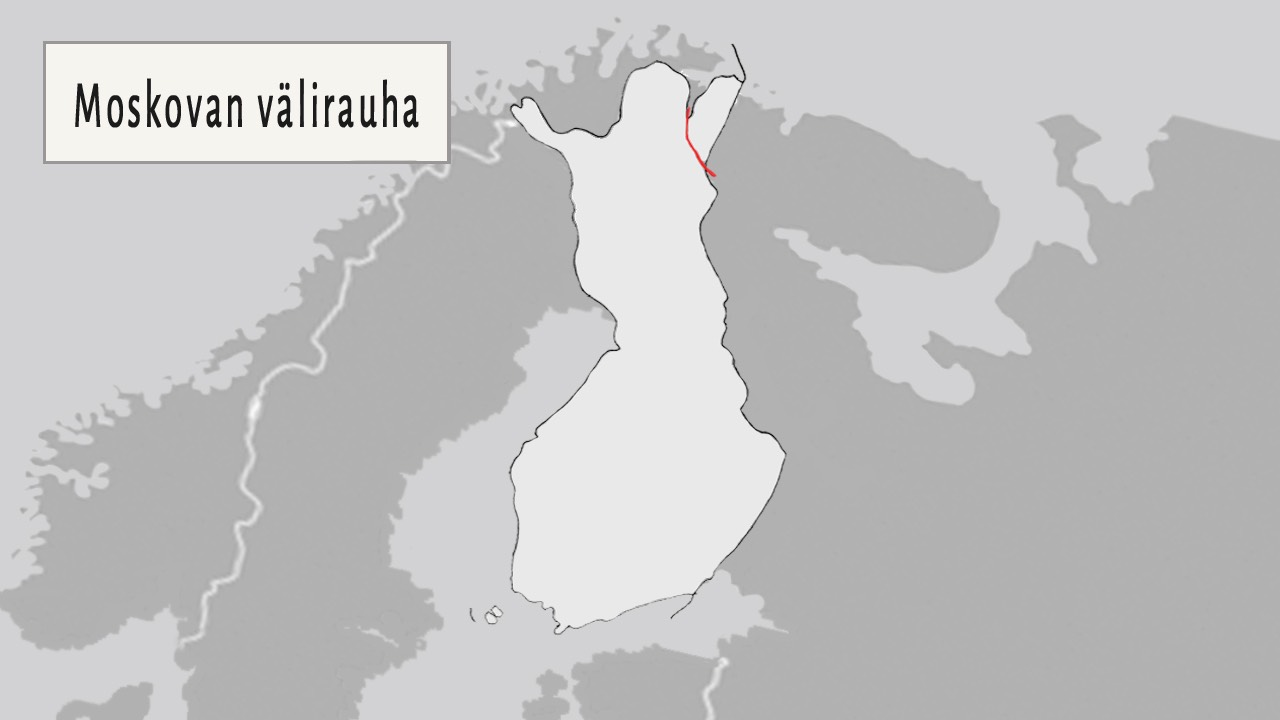
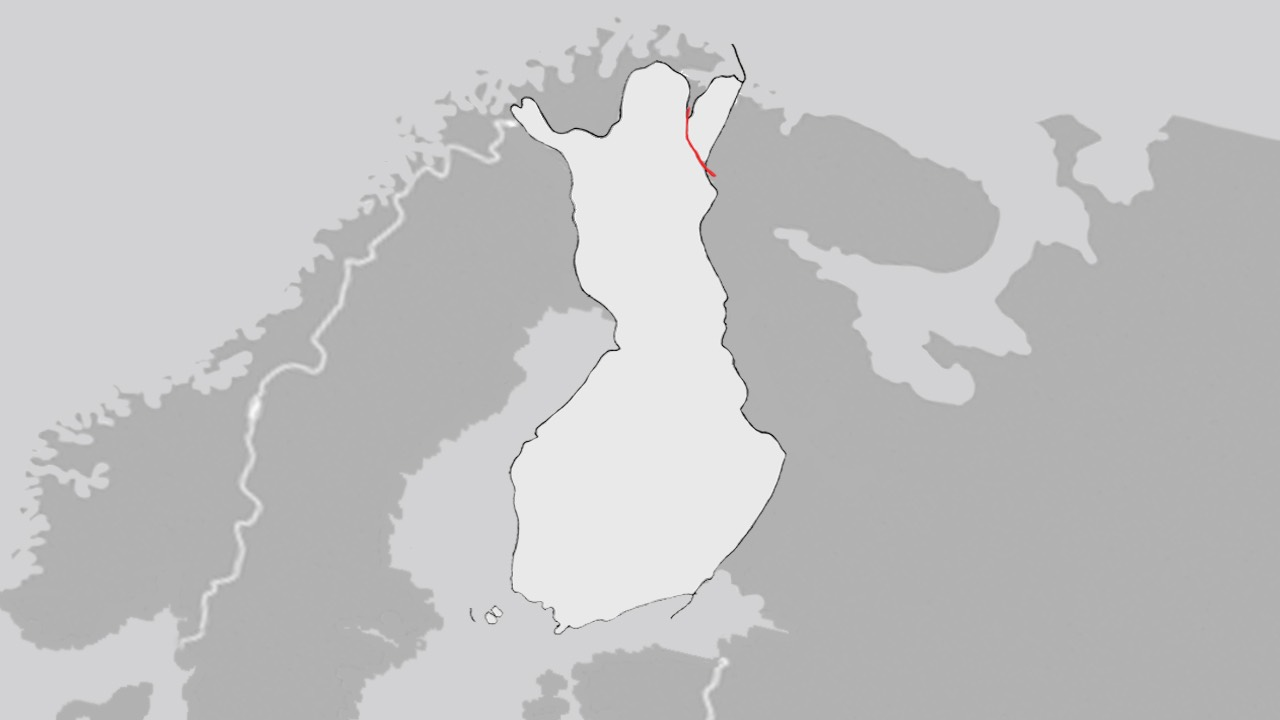
Rework map animation

Changed region(s): [[0.0312, 0.0306, 0.375, 0.2444]]

diff --git a/src/load.js b/src/load.js
@@ -52,10 +52,8 @@ var load_state = {
         GAME.load.image('empty', 'assets/img/empty.png');
         GAME.load.image('peace1940_01', 'assets/img/peace1940_01.jpg');
         GAME.load.image('peace1940_02', 'assets/img/peace1940_02.jpg');
-        GAME.load.image('peace1940_03', 'assets/img/peace1940_03.jpg');
         GAME.load.image('peace1944_01', 'assets/img/peace1944_01.jpg');
         GAME.load.image('peace1944_02', 'assets/img/peace1944_02.jpg');
-        GAME.load.image('peace1944_03', 'assets/img/peace1944_03.jpg');
         GAME.load.image('menubackground', 'assets/img/menu.jpg');
         GAME.load.image('genderbackground', 'assets/img/gender.jpg');
         GAME.load.image('schoolbackground', 'assets/img/school.jpg');
@@ -111,7 +109,7 @@ var load_state = {
      * from the default state, since they are overwritten in the beginning.
      */
     create: function() {
-        var startState = 'peacetime1'; // Default start state == 'menu'     
+        var startState = 'menu'; // Default start state == 'menu'     
         PLAYER = { 
             // Beginning properties
             gender: 'male',

diff --git a/src/map1.js b/src/map1.js
@@ -4,15 +4,13 @@ var map1_state = {
         //PLACEHOLDER! TODO: Add map with animation
         var images = [GAME.add.sprite(0, 0, 'peace1940_01'),
                       GAME.add.sprite(0, 0, 'peace1940_02'),
-                      GAME.add.sprite(0, 0, 'peace1940_03'),
                       GAME.add.sprite(0, 0, 'peace1944_01'),
-                      GAME.add.sprite(0, 0, 'peace1944_02'),
-                      GAME.add.sprite(0, 0, 'peace1944_03')];
+                      GAME.add.sprite(0, 0, 'peace1944_02')];
         var image = 'empty';
 
-        var tweenLength = 2000;
+        var tweenLength = 3000;
         var tweenDelayScalar = 0;
-        var tweenDelayConst = 1000;
+        var tweenDelayConst = 0;
 
         images.forEach(img => { 
             img.alpha = 0; 
